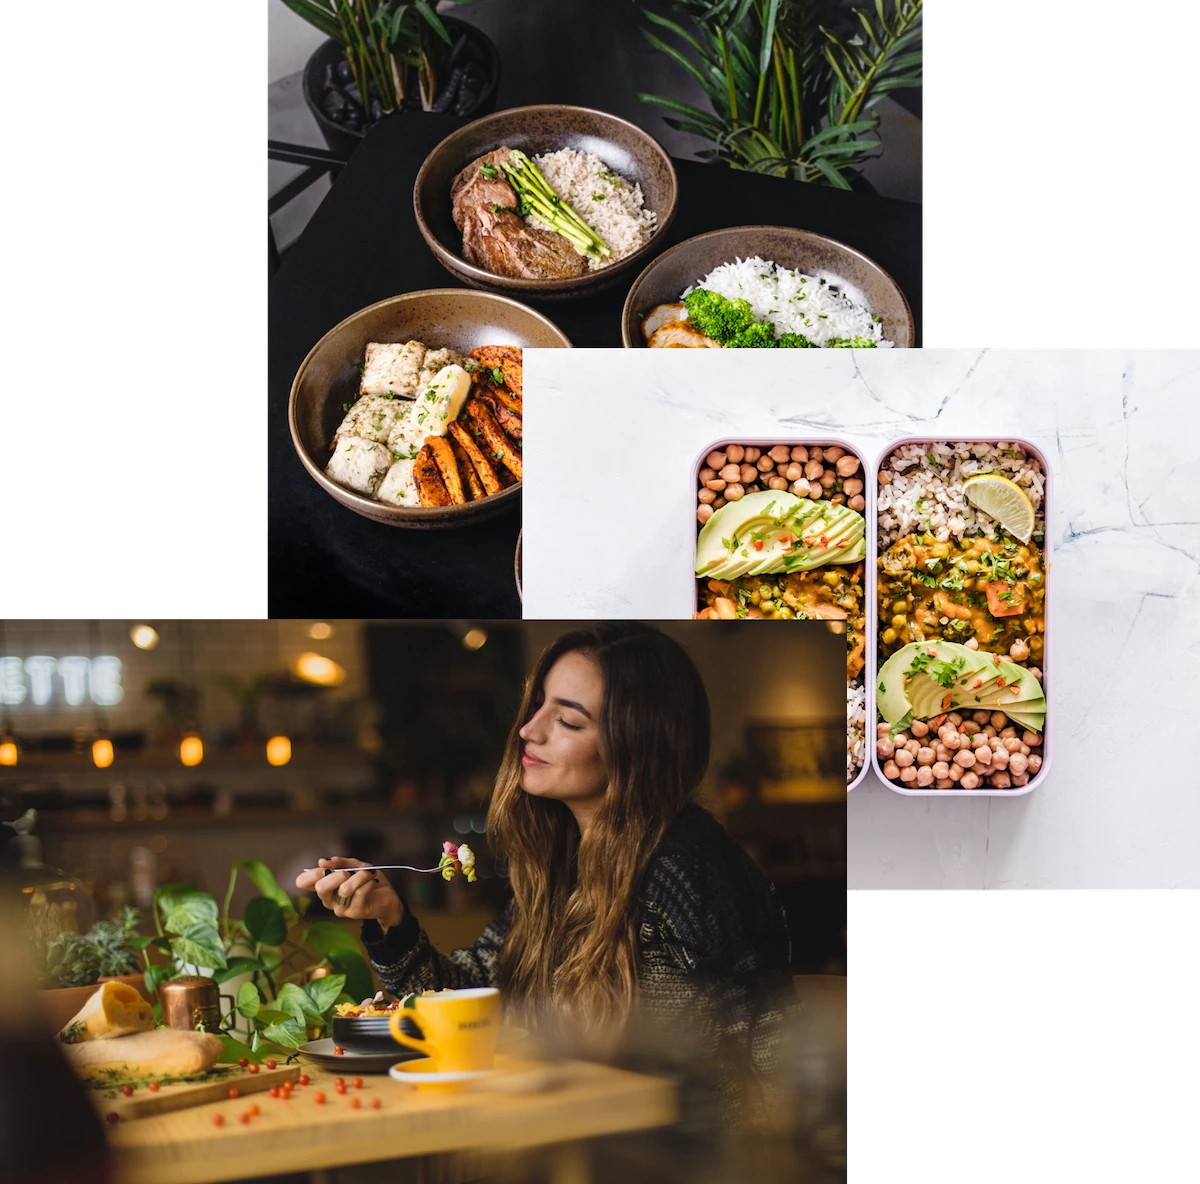
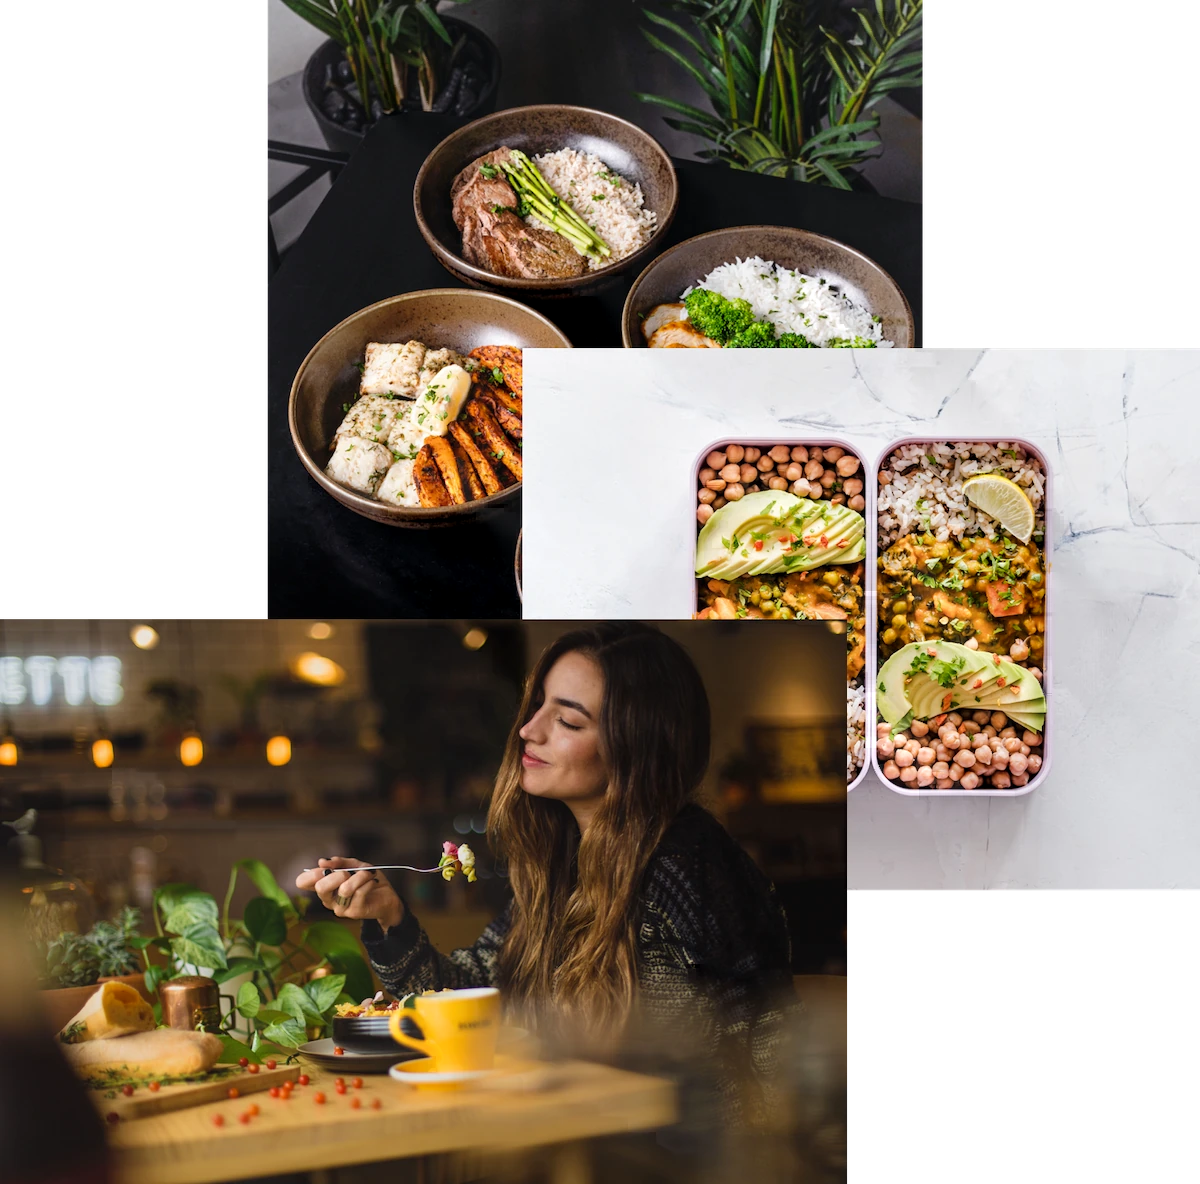
Update on images to format .webp

diff --git a/Omnifood/index.html b/Omnifood/index.html
@@ -110,9 +110,9 @@
           <div class="hero-image-box">
             <picture>
               <source srcset="img/hero.webp" type="image/webp" />
-              <source srcset="img/hero.png" type="image/png" />
+              <source srcset="img/hero-min.png" type="image/png" />
               <img
-                src="img/hero.png"
+                src="img/hero-min.png"
                 alt="woman enjoying food, meals in storage container, food bowls on a table"
                 class="hero-img"
               />
@@ -162,19 +162,27 @@
             </p>
           </div>
           <div class="step-img-box">
-            <img
-              src="img/app/app-screen-1.png"
-              class="step-img"
-              alt="Iphone app preferences selection screen"
-            />
+            <picture>
+              <source srcset="img/app/app-screen-1.webp" type="image/webp" />
+              <source srcset="img/app/app-screen-1.png" type="image/png" />
+              <img
+                src="img/app/app-screen-1.png"
+                class="step-img"
+                alt="Iphone app preferences selection screen"
+              />
+            </picture>
           </div>
           <!-- STEP 02 -->
           <div class="step-img-box">
-            <img
-              src="img/app/app-screen-2.png"
-              class="step-img"
-              alt="Iphone app meal approving screen "
-            />
+            <picture>
+              <source srcset="img/app/app-screen-2.webp" type="image/webp" />
+              <source srcset="img/app/app-screen-2.png" type="image/png" />
+              <img
+                src="img/app/app-screen-2.png"
+                class="step-img"
+                alt="Iphone app meal approving screen "
+              />
+            </picture>
           </div>
           <div class="step-text-box">
             <p class="step-number">02</p>
@@ -197,11 +205,15 @@
             </p>
           </div>
           <div class="step-img-box">
-            <img
-              src="img/app/app-screen-3.png"
-              class="step-img"
-              alt="Iphone app delivery screen "
-            />
+            <picture>
+              <source srcset="img/app/app-screen-3.webp" type="image/webp" />
+              <source srcset="img/app/app-screen-3.png" type="image/png" />
+              <img
+                src="img/app/app-screen-3.png"
+                class="step-img"
+                alt="Iphone app delivery screen "
+              />
+            </picture>
           </div>
         </div>
       </section>
@@ -215,11 +227,15 @@
         </div>
         <div class="container grid grid-3--cols margin-bottom-md">
           <div class="meal">
-            <img
-              src="img/meals/meal-1.jpg"
-              class="meal-img"
-              alt="Japanese Gyozas"
-            />
+            <picture>
+              <source srcset="img/meals/meal-1.webp" type="image/webp" />
+              <source srcset="img/meals/meal-1.jpg" type="image/jpg" />
+              <img
+                src="img/meals/meal-1.jpg"
+                class="meal-img"
+                alt="Japanese Gyozas"
+              />
+            </picture>
 
             <div class="meal-content">
               <div class="meal-tags">
@@ -247,11 +263,15 @@
             </div>
           </div>
           <div class="meal">
-            <img
-              src="img/meals/meal-2.jpg"
-              class="meal-img"
-              alt="Avocado Salad"
-            />
+            <picture>
+              <source srcset="img/meals/meal-2.webp" type="image/webp" />
+              <source srcset="img/meals/meal-2.jpg" type="image/jpg" />
+              <img
+                src="img/meals/meal-2.jpg"
+                class="meal-img"
+                alt="Avocado Salad"
+              />
+            </picture>
 
             <div class="meal-content">
               <div class="meal-tags">
@@ -385,76 +405,124 @@
         </div>
         <div class="gallery">
           <figure class="gallery-item">
-            <img
-              src="img/gallery/gallery-1.jpg"
-              alt="Photo of beautifully arranged food"
-            />
+            <picture>
+              <source srcset="img/gallery/gallery-1.webp" type="image/webp" />
+              <source srcset="img/gallery/gallery-1.jpg" type="image/jpg" />
+              <img
+                src="img/gallery/gallery-1.jpg"
+                alt="Photo of beautifully arranged food"
+              />
+            </picture>
           </figure>
           <figure class="gallery-item">
-            <img
-              src="img/gallery/gallery-2.jpg"
-              alt="Photo of beautifully arranged food"
-            />
+            <picture>
+              <source srcset="img/gallery/gallery-2.webp" type="image/webp" />
+              <source srcset="img/gallery/gallery-2.jpg" type="image/jpg" />
+              <img
+                src="img/gallery/gallery-2.jpg"
+                alt="Photo of beautifully arranged food"
+              />
+            </picture>
           </figure>
           <figure class="gallery-item">
-            <img
-              src="img/gallery/gallery-3.jpg"
-              alt="Photo of beautifully arranged food"
-            />
+            <picture>
+              <source srcset="img/gallery/gallery-3.webp" type="image/webp" />
+              <source srcset="img/gallery/gallery-3.jpg" type="image/jpg" />
+              <img
+                src="img/gallery/gallery-3.jpg"
+                alt="Photo of beautifully arranged food"
+              />
+            </picture>
           </figure>
           <figure class="gallery-item">
-            <img
-              src="img/gallery/gallery-4.jpg"
-              alt="Photo of beautifully arranged food"
-            />
+            <picture>
+              <source srcset="img/gallery/gallery-4.webp" type="image/webp" />
+              <source srcset="img/gallery/gallery-4.jpg" type="image/jpg" />
+              <img
+                src="img/gallery/gallery-4.jpg"
+                alt="Photo of beautifully arranged food"
+              />
+            </picture>
           </figure>
           <figure class="gallery-item">
-            <img
-              src="img/gallery/gallery-5.jpg"
-              alt="Photo of beautifully arranged food"
-            />
+            <picture>
+              <source srcset="img/gallery/gallery-5.webp" type="image/webp" />
+              <source srcset="img/gallery/gallery-5.jpg" type="image/jpg" />
+              <img
+                src="img/gallery/gallery-5.jpg"
+                alt="Photo of beautifully arranged food"
+              />
+            </picture>
           </figure>
           <figure class="gallery-item">
-            <img
-              src="img/gallery/gallery-6.jpg"
-              alt="Photo of beautifully arranged food"
-            />
+            <picture>
+              <source srcset="img/gallery/gallery-6.webp" type="image/webp" />
+              <source srcset="img/gallery/gallery-6.jpg" type="image/jpg" />
+              <img
+                src="img/gallery/gallery-6.jpg"
+                alt="Photo of beautifully arranged food"
+              />
+            </picture>
           </figure>
           <figure class="gallery-item">
-            <img
-              src="img/gallery/gallery-7.jpg"
-              alt="Photo of beautifully arranged food"
-            />
+            <picture>
+              <source srcset="img/gallery/gallery-7.webp" type="image/webp" />
+              <source srcset="img/gallery/gallery-7.jpg" type="image/jpg" />
+              <img
+                src="img/gallery/gallery-7.jpg"
+                alt="Photo of beautifully arranged food"
+              />
+            </picture>
           </figure>
           <figure class="gallery-item">
-            <img
-              src="img/gallery/gallery-8.jpg"
-              alt="Photo of beautifully arranged food"
-            />
+            <picture>
+              <source srcset="img/gallery/gallery-8.webp" type="image/webp" />
+              <source srcset="img/gallery/gallery-8.jpg" type="image/jpg" />
+              <img
+                src="img/gallery/gallery-8.jpg"
+                alt="Photo of beautifully arranged food"
+              />
+            </picture>
           </figure>
           <figure class="gallery-item">
-            <img
-              src="img/gallery/gallery-9.jpg"
-              alt="Photo of beautifully arranged food"
-            />
+            <picture>
+              <source srcset="img/gallery/gallery-9.webp" type="image/webp" />
+              <source srcset="img/gallery/gallery-9.jpg" type="image/jpg" />
+              <img
+                src="img/gallery/gallery-9.jpg"
+                alt="Photo of beautifully arranged food"
+              />
+            </picture>
           </figure>
           <figure class="gallery-item">
-            <img
-              src="img/gallery/gallery-10.jpg"
-              alt="Photo of beautifully arranged food"
-            />
+            <picture>
+              <source srcset="img/gallery/gallery-10.webp" type="image/webp" />
+              <source srcset="img/gallery/gallery-10.jpg" type="image/jpg" />
+              <img
+                src="img/gallery/gallery-10.jpg"
+                alt="Photo of beautifully arranged food"
+              />
+            </picture>
           </figure>
           <figure class="gallery-item">
-            <img
-              src="img/gallery/gallery-11.jpg"
-              alt="Photo of beautifully arranged food"
-            />
+            <picture>
+              <source srcset="img/gallery/gallery-11.webp" type="image/webp" />
+              <source srcset="img/gallery/gallery-11.jpg" type="image/jpg" />
+              <img
+                src="img/gallery/gallery-11.jpg"
+                alt="Photo of beautifully arranged food"
+              />
+            </picture>
           </figure>
           <figure class="gallery-item">
-            <img
-              src="img/gallery/gallery-12.jpg"
-              alt="Photo of beautifully arranged food"
-            />
+            <picture>
+              <source srcset="img/gallery/gallery-12.webp" type="image/webp" />
+              <source srcset="img/gallery/gallery-12.jpg" type="image/jpg" />
+              <img
+                src="img/gallery/gallery-12.jpg"
+                alt="Photo of beautifully arranged food"
+              />
+            </picture>
           </figure>
         </div>
       </section>

diff --git a/Omnifood/css/style.css b/Omnifood/css/style.css
@@ -216,6 +216,17 @@
   position: relative;
 }
 
+.step-img-box > picture {
+  display: inline-block;
+  width: 35%;
+  height: auto;
+}
+
+.step-img {
+  width: 100%;
+  z-index: 1000;
+}
+
 .step-img-box::before,
 .step-img-box::after {
   content: "";
@@ -243,11 +254,6 @@
   padding-bottom: 45%;
   background-color: #fae5d3;
   z-index: -1;
-}
-
-.step-img {
-  width: 35%;
-  z-index: 1000;
 }
 
 /* **************************************** */
